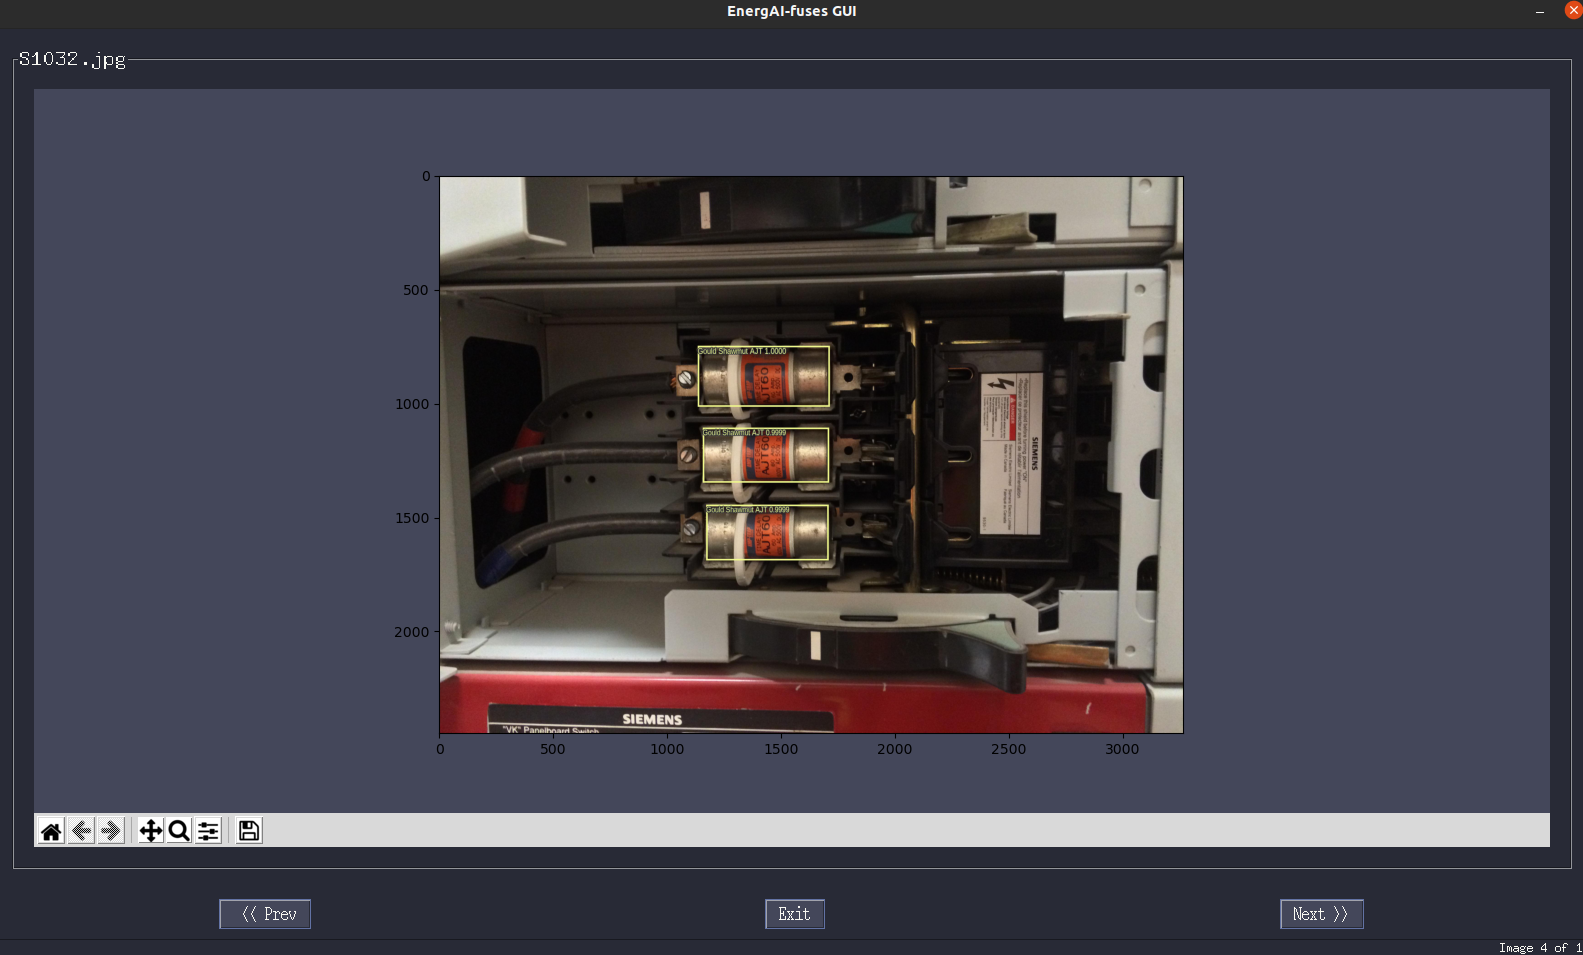
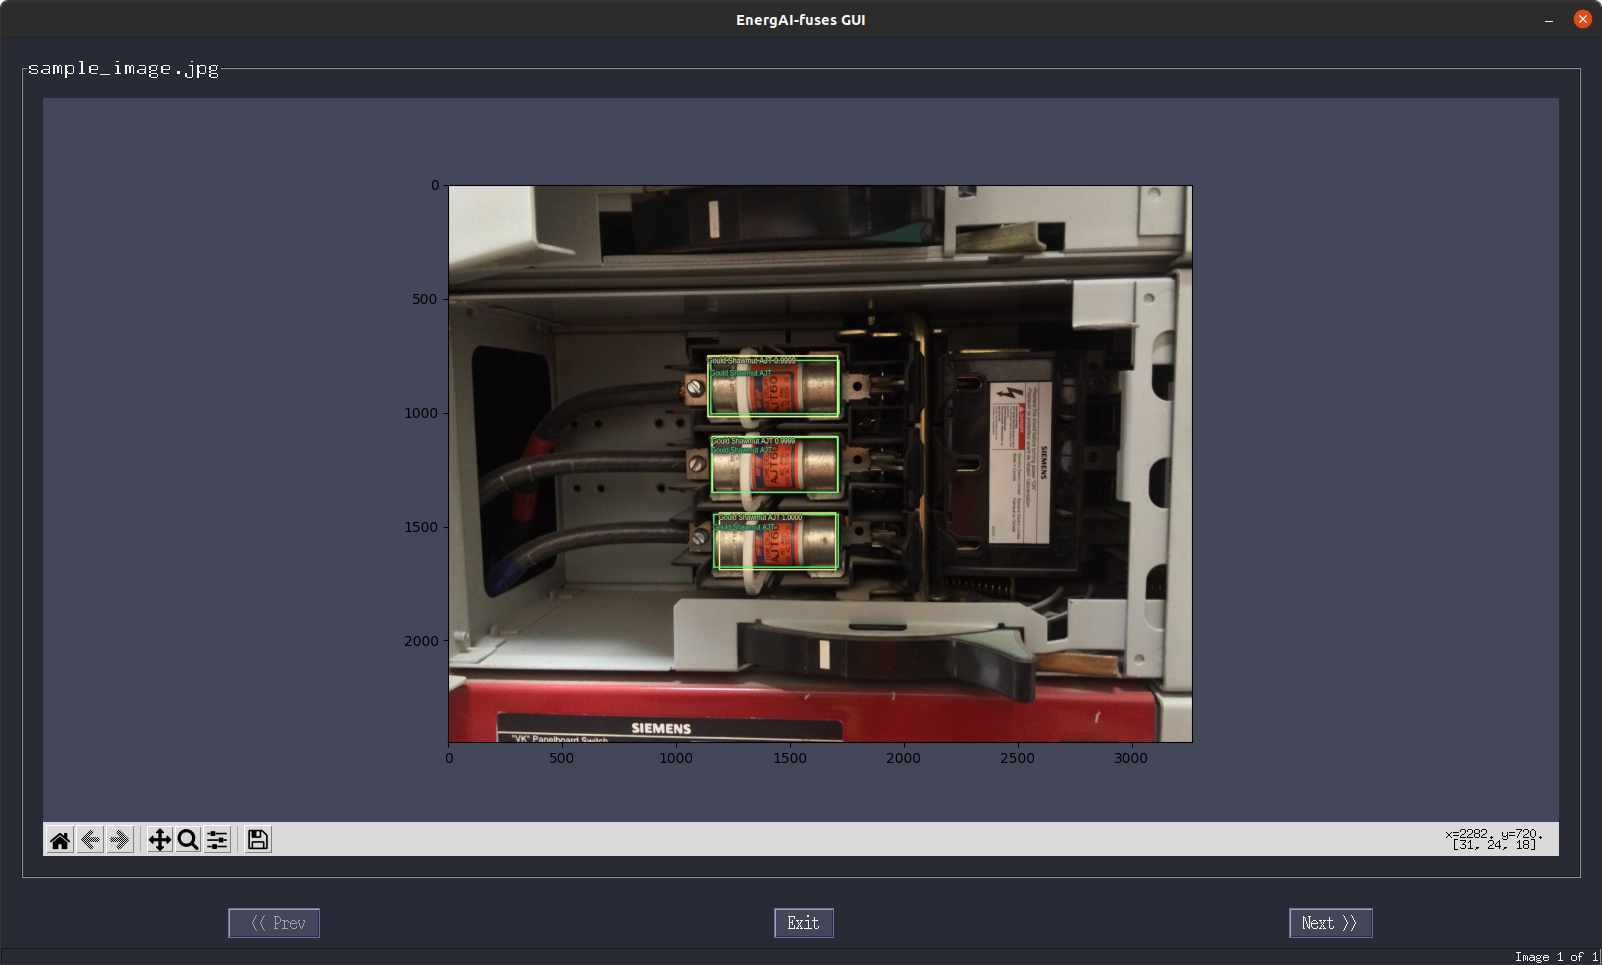
Added sample image to be able to test GUI without downloading all data

diff --git a/README.md b/README.md
@@ -135,7 +135,8 @@ More details can be found [here](docs/readme/README_gui.md).
 │   ├── gui_resized                      <- Resized images for GUI inference
 │   ├── inference                        <- Inference test images are saved here
 │   ├── raw                              <- Raw images are automatically downloaded here
-│   └── resized                          <- Resized images are saved here
+│   ├── resized                          <- Resized images are saved here
+│   └── sample                           <- Sample image and annotations (used to test the GUI without downloading all the data)
 ├── docs                                 <- Contains markdown README & documentation files
 ├── logdir                               <- Tensorboard logs are saved here for each run in subfolders
 ├── reports                              <- Contains results parsing scripts for each phase (see module details for more info)

diff --git a/docs/readme/README_gui.md b/docs/readme/README_gui.md
@@ -48,9 +48,12 @@ To start the GUI:
 python gui.py
 ```
 
-Select the desired model, image directory and options, then press
+First, select the desired model, image directory and options, then press
 on the center *Start* button to start the inference. After the inference
 has been performed, an image viewer with zoom and pan options will 
-appear to allow users to view predicted fuses directly on the images:
+appear to allow users to view predicted fuses directly on the images. The
+following figure shows the inference results obtained on the sample
+image available in the repository under 'data/sample/image' (ground truth
+boxes are shown in green and model predictions are shown in yellow) :
 
 ![gui_image_viewer.png](../images/gui_image_viewer.png)
